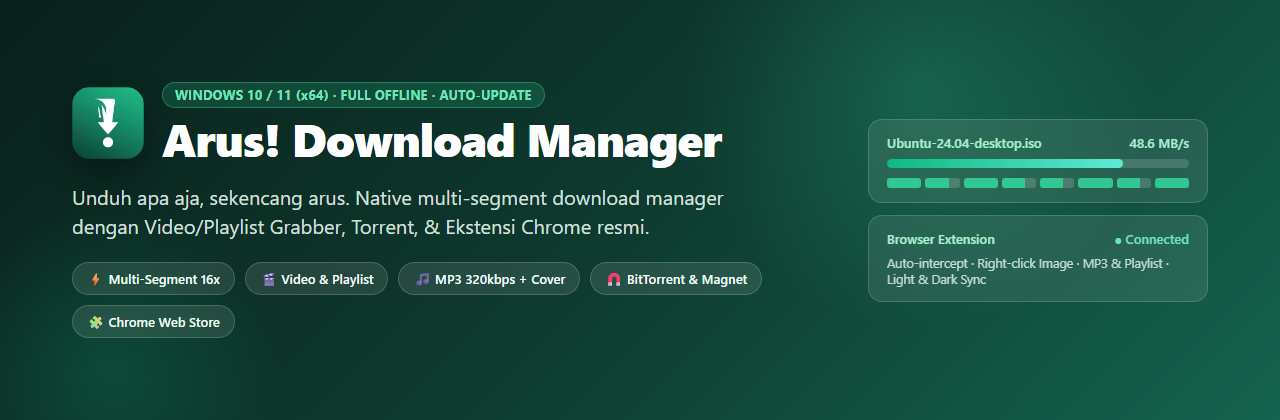
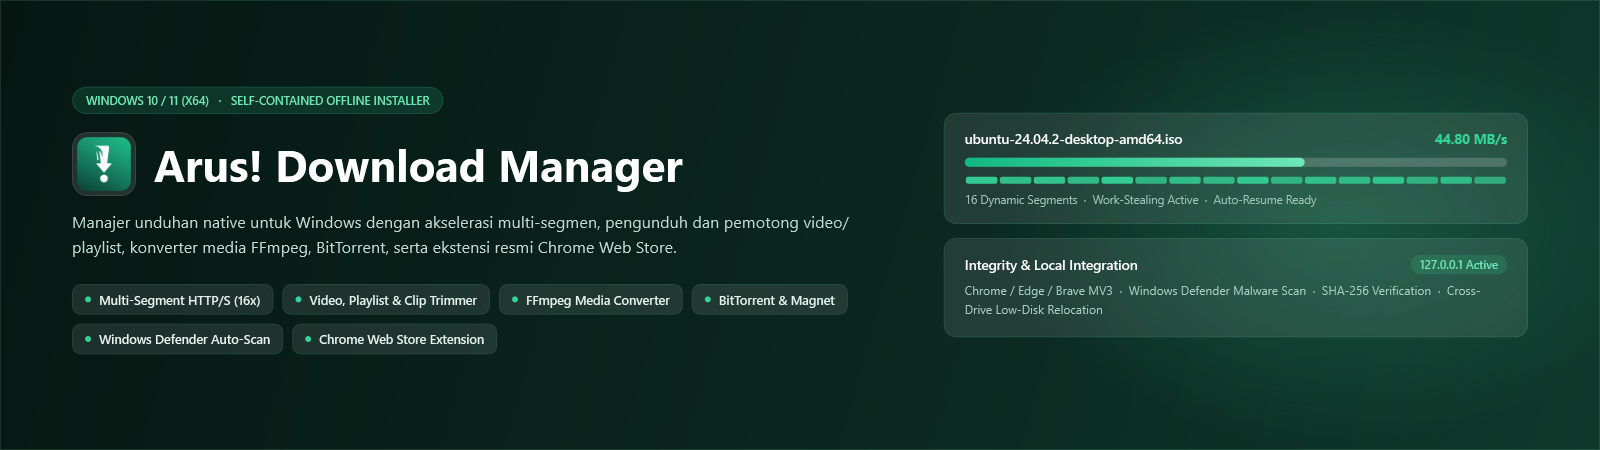
Add files via upload

diff --git a/README.md b/README.md
@@ -4,81 +4,105 @@
 
 <p align="center">
   <a href="https://github.com/baharidameta0-prog/arus-download-manager/releases/latest">
-    <img src="https://img.shields.io/github/v/release/baharidameta0-prog/arus-download-manager?style=for-the-badge&color=13795B&label=Latest%20Release" alt="Latest Release" />
+    <img src="https://img.shields.io/github/v/release/baharidameta0-prog/arus-download-manager?style=flat-square&color=13795B&label=Latest%20Release" alt="Latest Release" />
   </a>
-  <img src="https://img.shields.io/badge/Platform-Windows%2010%20%2F%2011%20(x64)-0F6E52?style=for-the-badge&logo=windows" alt="Windows 10/11 x64" />
-  <img src="https://img.shields.io/badge/Installer-Full%20Offline-178766?style=for-the-badge" alt="Full Offline Installer" />
+  <img src="https://img.shields.io/badge/Platform-Windows%2010%20%2F%2011%20(x64)-0F6E52?style=flat-square" alt="Windows 10/11 x64" />
+  <img src="https://img.shields.io/badge/Installer-Full%20Offline-178766?style=flat-square" alt="Full Offline Installer" />
+  <a href="https://chromewebstore.google.com/detail/mdidagnhjbilkgbafhchnghoflbakfmk">
+    <img src="https://img.shields.io/badge/Chrome%20Web%20Store-Manifest%20V3-1E6B52?style=flat-square" alt="Chrome Web Store Extension" />
+  </a>
   <a href="https://github.com/baharidameta0-prog/arus-download-manager/releases/latest">
-    <img src="https://img.shields.io/github/downloads/baharidameta0-prog/arus-download-manager/total?style=for-the-badge&color=0D9488&label=Downloads" alt="Total Downloads" />
+    <img src="https://img.shields.io/github/downloads/baharidameta0-prog/arus-download-manager/total?style=flat-square&color=0D9488&label=Downloads" alt="Total Downloads" />
   </a>
 </p>
 
-<h3 align="center">Unduh apa aja, sekencang arus.</h3>
 <p align="center">
-  Native Windows Download Manager yang cepat, modern, dan ringan — lengkap dengan akselerasi multi-segmen, Video &amp; Playlist Grabber, MP3 Cover Art, BitTorrent/Magnet, serta integrasi Ekstensi Chrome/Edge resmi ala IDM.
+  <strong>Arus! Download Manager</strong> adalah aplikasi manajer unduhan native untuk Windows (64-bit) yang menggabungkan akselerasi HTTP/HTTPS multi-segmen, pengunduh dan pemotong video/playlist, konverter media offline, klien BitTorrent/Magnet, serta integrasi ekstensi browser resmi dalam satu paket instalasi mandiri.
 </p>
 
 <p align="center">
   <a href="https://github.com/baharidameta0-prog/arus-download-manager/releases/latest">
-    <img src="https://img.shields.io/badge/⬇%20%20Download%20Arus!%20untuk%20Windows%20(64--bit)-13795B?style=for-the-badge&logoColor=white" height="40" alt="Download Arus! untuk Windows" />
+    <img src="https://img.shields.io/badge/Download%20untuk%20Windows%20(64--bit)-13795B?style=for-the-badge" height="38" alt="Download Arus! untuk Windows (64-bit)" />
+  </a>
+  &nbsp;
+  <a href="https://chromewebstore.google.com/detail/mdidagnhjbilkgbafhchnghoflbakfmk">
+    <img src="https://img.shields.io/badge/Ekstensi%20Chrome%20%2F%20Edge%20%2F%20Brave-242C38?style=for-the-badge" height="38" alt="Ekstensi Browser Resmi" />
   </a>
 </p>
 
 ---
 
-## ✨ Fitur Unggulan
+## Tampilan Antarmuka
 
-| Fitur | Deskripsi |
+Antarmuka mendukung tema terang (*Light Mode*) dan gelap (*Dark Mode*) serta pilihan Bahasa Indonesia dan Inggris yang tersinkronisasi secara otomatis dengan ekstensi browser.
+
+### Mode Terang
+<p align="center">
+  <img src="assets/preview-light.png" alt="Arus! Download Manager - Mode Terang" width="100%" />
+</p>
+
+### Mode Gelap
+<p align="center">
+  <img src="assets/preview-dark.png" alt="Arus! Download Manager - Mode Gelap" width="100%" />
+</p>
+
+---
+
+## Kemampuan Utama
+
+### 1. Mesin Unduhan & Reliabilitas Jaringan
+
+| Kemampuan | Penjelasan |
 |---|---|
-| ⚡ **Multi-Segment Accelerator (hingga 16 koneksi)** | Memecah file besar secara paralel lengkap dengan visualisasi segmen & grafik kecepatan live real-time. |
-| 🎬 **Video, Playlist & Social Media Grabber** | Mendukung **YouTube** (0 ms instant quality + **Full Playlist**), **TikTok**, **Instagram**, **Threads**, **Facebook**, & **X/Twitter**, lengkap dengan **Subtitle (.srt)**. |
-| 🎵 **1-Klik MP3 320kbps + Cover Art** | Ekstrak audio kualitas terbaik langsung ke `.mp3` 320kbps lengkap dengan thumbnail tertanam & metadata ID3. |
-| 🧲 **BitTorrent & Magnet Built-in** | Unduh file `.torrent` dan tautan `magnet:?` tanpa aplikasi tambahan. |
-| 🧩 **Ekstensi Browser Resmi (Chrome Web Store)** | Terpasang otomatis oleh installer di **Chrome, Edge, & Brave** — auto-intercept unduhan, tombol cepat MP3/Playlist di video, dan klik kanan **Download image/link with Arus!**. |
-| 📦 **Batch Download & Auto-Extract `.zip`** | Impor banyak link sekaligus (termasuk pola angka `[01-20]`) dan ekstrak arsip `.zip` secara otomatis begitu selesai. |
-| 🛡 **Verifikasi Checksum (SHA-256 / MD5)** | Hitung & cocokkan hash file langsung di dalam Arus! untuk memastikan file `.iso`/installer 100% asli dan utuh. |
-| 📋 **Smart Clipboard Monitor & Floating Drop Widget** | Deteksi link otomatis saat `Ctrl+C`, plus widget melayang opsional untuk drag-and-drop link & file `.torrent`. |
-| 🔄 **Refresh Download Address** | Link download kadaluarsa (HTTP 403) saat file besar sudah 80%? Tempel link baru dan lanjutkan tanpa ulang dari 0%! |
-| 🌙 **Auto-Shutdown / Sleep & Penjadwal** | Atur antrean unduhan terjadwal dan matikan/sleep PC otomatis (dengan hitung mundur aman 30 detik) begitu semua selesai. |
-| 🎨 **Light & Dark Mode + Bahasa ID / EN** | Tema aplikasi & ekstensi browser otomatis sinkron secara real-time. |
-| 🚀 **Full Offline & Auto-Update** | Installer sudah membundel semua komponen (tidak perlu install .NET/engine terpisah) + auto-updater bawaan dengan verifikasi **SHA-256**. |
+| **Akselerasi Multi-Segmen Dinamis** | Memecah unduhan HTTP/HTTPS hingga 16 koneksi paralel dengan algoritma *dynamic work-stealing* (segmen yang selesai lebih awal otomatis membantu membelah sisa segmen terberat) serta grafik laju transfer *real-time*. |
+| **Pemulihan Koneksi & Anti-Sleep** | Mendeteksi koneksi macet (*stall recovery*), melanjutkan unduhan otomatis saat jaringan kembali tersambung dari gangguan Wi-Fi/ISP, dan mencegah Windows masuk ke mode *Sleep* selama ada unduhan aktif. |
+| **Pembaruan Tautan Kedaluwarsa** | Melanjutkan unduhan berukuran besar yang terhenti akibat tautan sementara kedaluwarsa (`HTTP 403` / `410`) cukup dengan memperbarui alamat unduhan tanpa mengulang progres dari awal. |
+| **Mode Hemat Bandwidth & Kuota Harian** | Sakelar satu klik pada bilah status dan *System Tray* untuk membatasi pemakaian bandwidth saat rapat daring atau bermain gim, dilengkapi pembatas **Kuota Data Harian (GB/hari)** otomatis. |
+| **BitTorrent, Magnet, & Proxy** | Mendukung berkas `.torrent` dan tautan `magnet:?` dengan pengaturan batas kecepatan unggah serta durasi *seeding*, ditambah dukungan Proxy Sistem, `HTTP`, dan `SOCKS5` dengan enkripsi kredensial Windows DPAPI. |
+
+### 2. Pengunduh Video, Audio, & Konversi Media
+
+| Kemampuan | Penjelasan |
+|---|---|
+| **Video & Playlist Multi-Platform** | Mengunduh video tunggal maupun seluruh *playlist* dari YouTube (pemilihan resolusi instan hingga 4K dan subtitel `.srt`), TikTok, Instagram, Threads, Facebook, serta X/Twitter. |
+| **Pemotong Klip & YouTube Chapter** | Mengunduh rentang durasi tertentu (`mm:ss` hingga `mm:ss`) atau memilih bab (*chapter*) video YouTube secara langsung sehingga tidak perlu mengunduh keseluruhan berkas video. |
+| **Ekstraksi MP3 320kbps & Thumbnail** | Mengekstrak audio langsung ke format `.mp3` 320kbps lengkap dengan sampul album (*cover art*) dan metadata ID3, serta opsi penyimpanan gambar *thumbnail* resolusi asli. |
+| **Konverter Media Offline Bawaan** | Mengonversi berkas video atau audio yang sudah terunduh menjadi **MP3 320kbps**, **GIF animasi**, atau **MP4 ringkas (H.264)** langsung dari menu klik kanan tanpa koneksi internet. |
+
+### 3. Manajemen Berkas, Antrean, & Otomasi
+
+| Kemampuan | Penjelasan |
+|---|---|
+| **Relokasi Saat Penyimpanan Penuh** | Memeriksa sisa ruang penyimpanan sebelum dan selama proses unduh. Ketika partisi tujuan penuh, berkas sementara (`.aruspart`) dapat dipindahkan ke drive lain untuk dilanjutkan tanpa kehilangan progres. |
+| **Ekstraksi Arsip Universal** | Mengekstrak arsip `.zip`, `.rar`, `.7z`, `.tar.gz`, `.tar.xz`, dan `.tgz` secara otomatis saat selesai maupun secara manual ke subfolder terpisah melalui menu klik kanan. |
+| **Aturan Folder Pintar & Ganti Nama (`F2`)** | Mengarahkan lokasi penyimpanan otomatis berdasarkan kata kunci domain atau ekstensi berkas (*Smart Folder Rules*), serta mengganti nama berkas di daftar sekaligus di disk menggunakan pintasan `F2`. |
+| **Manajemen Antrean & Penjadwal** | Mendukung *Force Start*, pengaturan urutan prioritas antrean, penjadwalan jam mulai/berhenti harian, pengunduhan beruntun pola angka (`[01-20]`), serta opsi *Sleep* atau *Shutdown* otomatis dengan hitung mundur pembatalan 30 detik. |
+| **Pemantauan Clipboard, Pemulihan, & Cadangan** | Pemantau tautan *clipboard* opsional, widget *drag-and-drop* melayang, deteksi berkas lokal yang terhapus disertai opsi unduh ulang satu klik, serta ekspor/impor cadangan pengaturan dan riwayat (`.json`). |
+
+### 4. Integrasi Browser, Keamanan, & Pembaruan
+
+| Kemampuan | Penjelasan |
+|---|---|
+| **Ekstensi Resmi Chrome Web Store** | Ekstensi Manifest V3 resmi untuk Google Chrome, Microsoft Edge, dan Brave dengan intersepsi unduhan otomatis, tombol cepat di pemutar video, dan menu konteks klik kanan pada tautan maupun gambar. |
+| **Pemindaian Windows Defender** | Memindai berkas yang selesai diunduh secara otomatis menggunakan mesin **Windows Defender** lokal (termasuk pemeriksaan isi arsip) dan menerapkan penanda keamanan standar Windows (*Mark-of-the-Web*). |
+| **Verifikasi Hash & Pembaruan Aman** | Dilengkapi fitur pencocokan *checksum* `SHA-256` dan `MD5` langsung pada panel inspeksi berkas, serta *Auto-Updater* aplikasi bawaan yang mewajibkan verifikasi integritas `SHA-256` sebelum instalasi. |
 
 ---
 
-## 🖥 Tampilan Aplikasi
-
-### Light Mode (Klasik & Bersih)
-<p align="center">
-  <img src="assets/preview-light.png" alt="Arus! Download Manager Light Mode" width="100%" />
-</p>
-
-### Dark Mode (Nyaman di Mata)
-<p align="center">
-  <img src="assets/preview-dark.png" alt="Arus! Download Manager Dark Mode" width="100%" />
-</p>
-
----
-
-## 📥 Cara Install
+## Instalasi
 
 1. Buka halaman **[Releases Terbaru](https://github.com/baharidameta0-prog/arus-download-manager/releases/latest)**.
-2. Unduh **`Arus-Setup-x.y.z.exe`** *(Full Offline Installer — untuk pengguna baru)*.
-   *(Catatan: `Arus-Update-x.y.z.exe` digunakan otomatis oleh fitur Auto-Updater di dalam aplikasi.)*
-3. Jalankan installer → klik **Next → Install**.
-4. Buka Chrome / Edge / Brave → klik **Enable extension** saat popup **Arus! Download Manager** muncul di pojok kanan atas.
-5. Selesai! Arus! otomatis standby di System Tray setiap Windows dinyalakan.
+2. Unduh berkas **`Arus-Setup-x.y.z.exe`** (*Full Offline Installer* untuk pemasangan awal maupun pembaruan manual).
+   *Catatan: Berkas `Arus-Update-x.y.z.exe` hanya digunakan secara internal oleh fitur Auto-Updater di dalam aplikasi.*
+3. Jalankan installer dan ikuti langkah pemasangan hingga selesai. Seluruh dependensi runtime dan mesin pengolah media sudah termasuk di dalam paket instalasi.
+4. Buka Google Chrome, Microsoft Edge, atau Brave, lalu aktifkan ekstensi **Arus! Download Manager** ketika notifikasi pemasangan muncul, atau pasang langsung melalui **[Chrome Web Store](https://chromewebstore.google.com/detail/mdidagnhjbilkgbafhchnghoflbakfmk)**.
 
-> **Catatan Windows SmartScreen:** Karena Arus! adalah aplikasi indie gratis tanpa sertifikat berbayar, jika muncul layar biru *"Windows protected your PC"*, cukup klik **More info → Run anyway**. Semua rilis dilengkapi **`checksums.txt` (SHA-256)** untuk verifikasi keaslian file.
-
----
-
-## 🔒 Privasi 100% Lokal
-
-- Seluruh proses unduhan dan komunikasi antara ekstensi browser dan aplikasi desktop berlangsung **100% lokal di perangkat kamu (`127.0.0.1`)**.
-- Tidak ada telemetri, pelacakan aktivitas, iklan, atau pengiriman data pengguna ke server eksternal.
+> **Informasi Windows SmartScreen:** Apabila muncul peringatan *"Windows protected your PC"* saat menjalankan installer, klik **More info** lalu pilih **Run anyway**. Hal ini wajar untuk perangkat lunak independen yang didistribusikan secara gratis tanpa sertifikat *Extended Validation (EV)* berbayar. Setiap rilis selalu menyertakan berkas **`checksums.txt`** (`SHA-256`) untuk verifikasi keaslian paket instalasi.
 
 ---
 
-<p align="center">
-  Dibuat dengan ❤ untuk pengalaman download Windows yang lebih cepat, rapi, dan tanpa ribet.
-</p>
+## Arsitektur & Privasi
+
+- **Komunikasi Lokal Terisolasi:** Integrasi antara ekstensi browser dan aplikasi desktop hanya berjalan melalui soket *loopback* lokal (`127.0.0.1`) yang memvalidasi identitas ekstensi resmi dan menolak permintaan lintas situs (*cross-origin*).
+- **Tanpa Pengumpulan Data:** Aplikasi bekerja sepenuhnya di perangkat lokal pengguna tanpa telemetri, pelacakan riwayat unduhan, iklan, maupun pengiriman data ke server perantara.
+- **Penyimpanan Kredensial Terlindungi:** Kredensial sensitif seperti kata sandi proxy dienkripsi di penyimpanan lokal menggunakan mekanisme *Windows Data Protection API (DPAPI)* khusus akun pengguna aktif.
